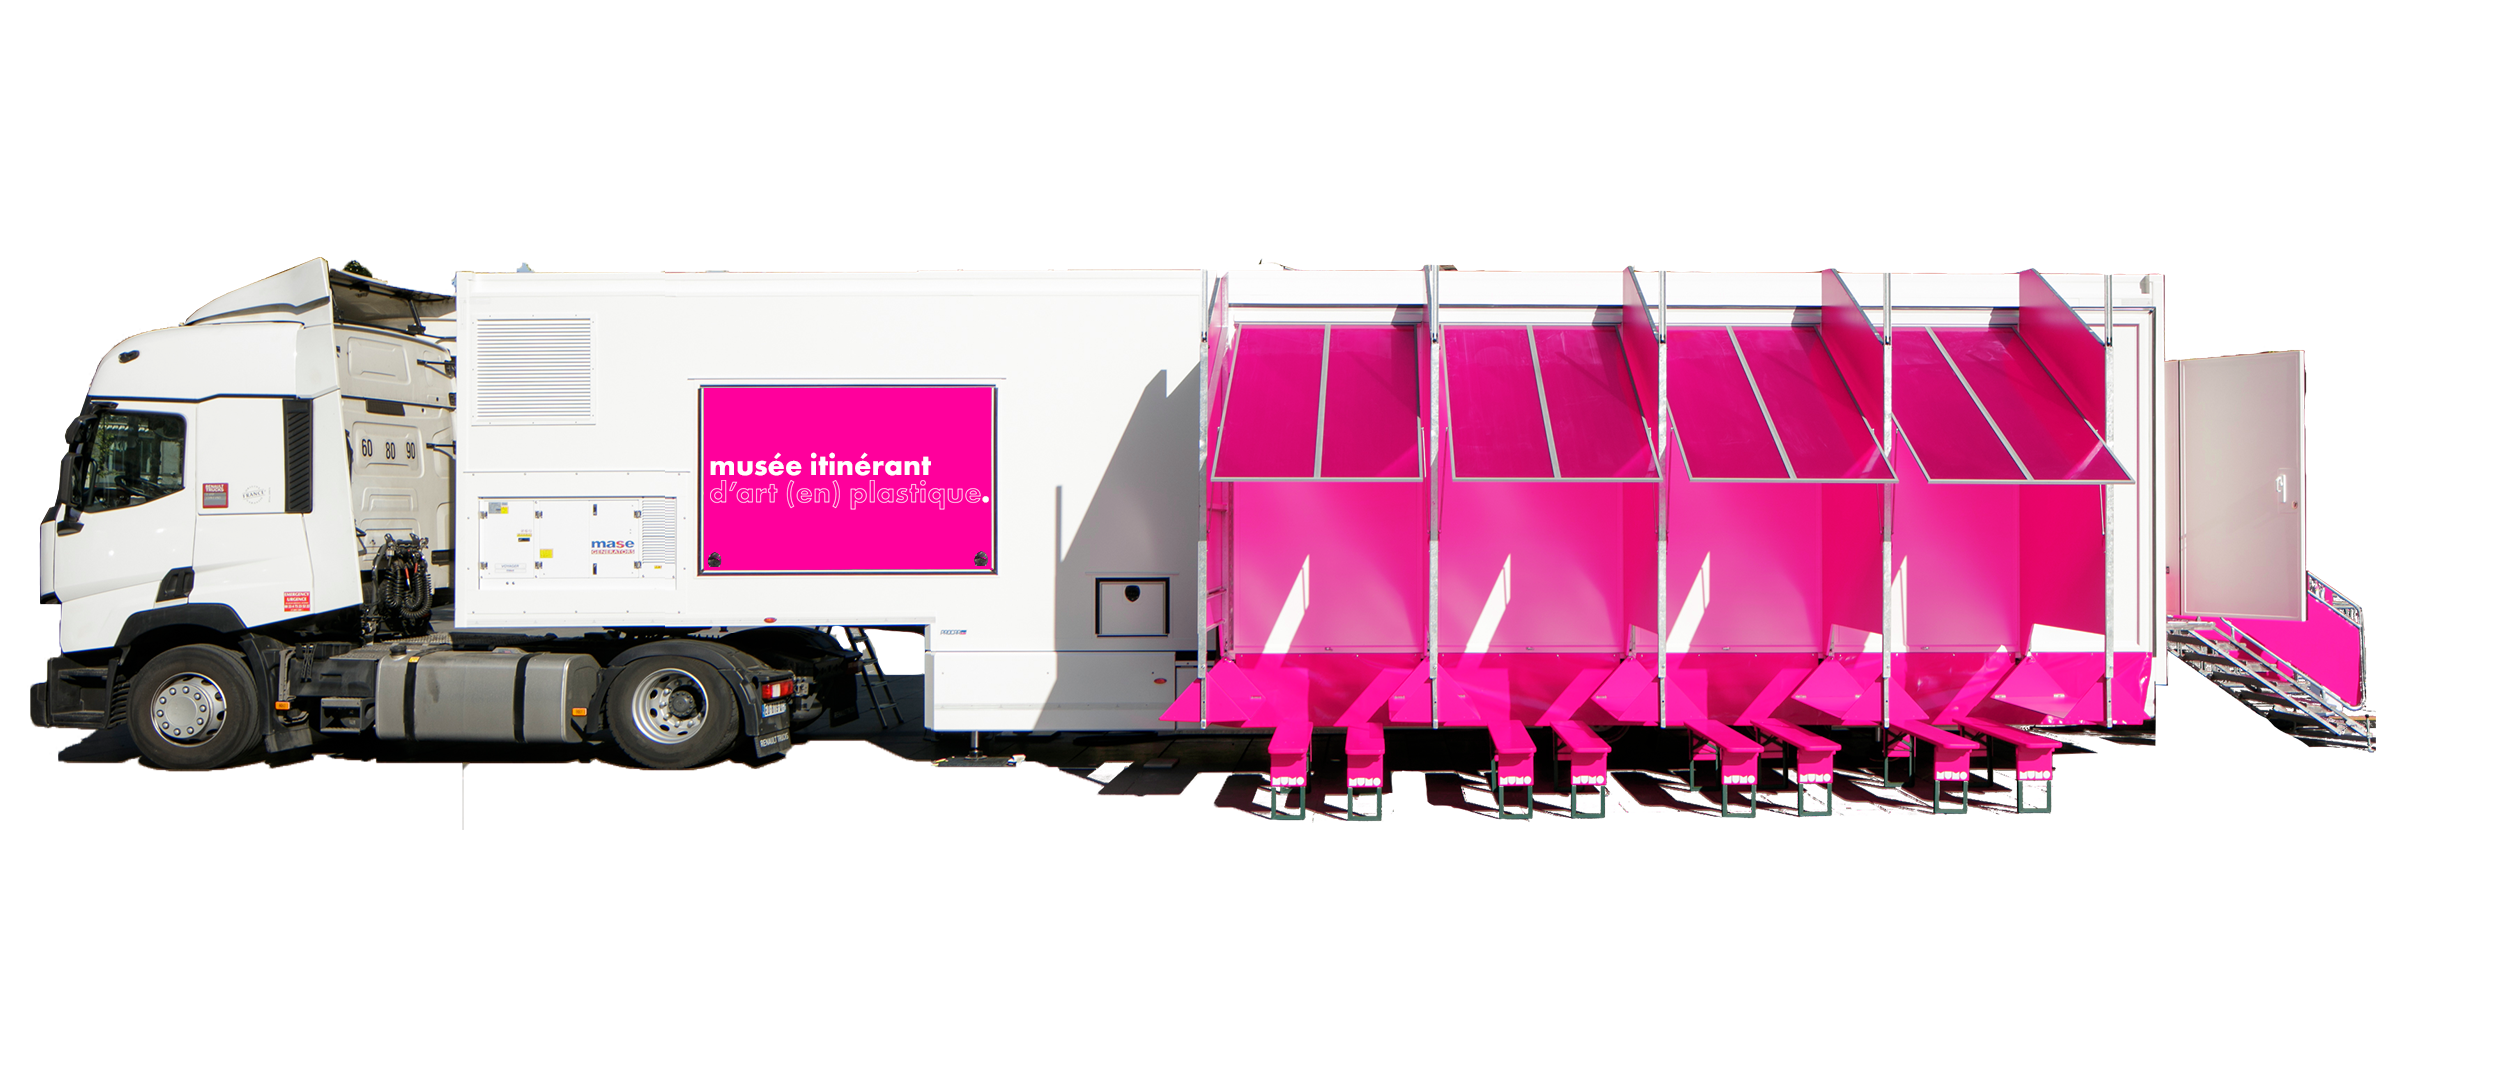
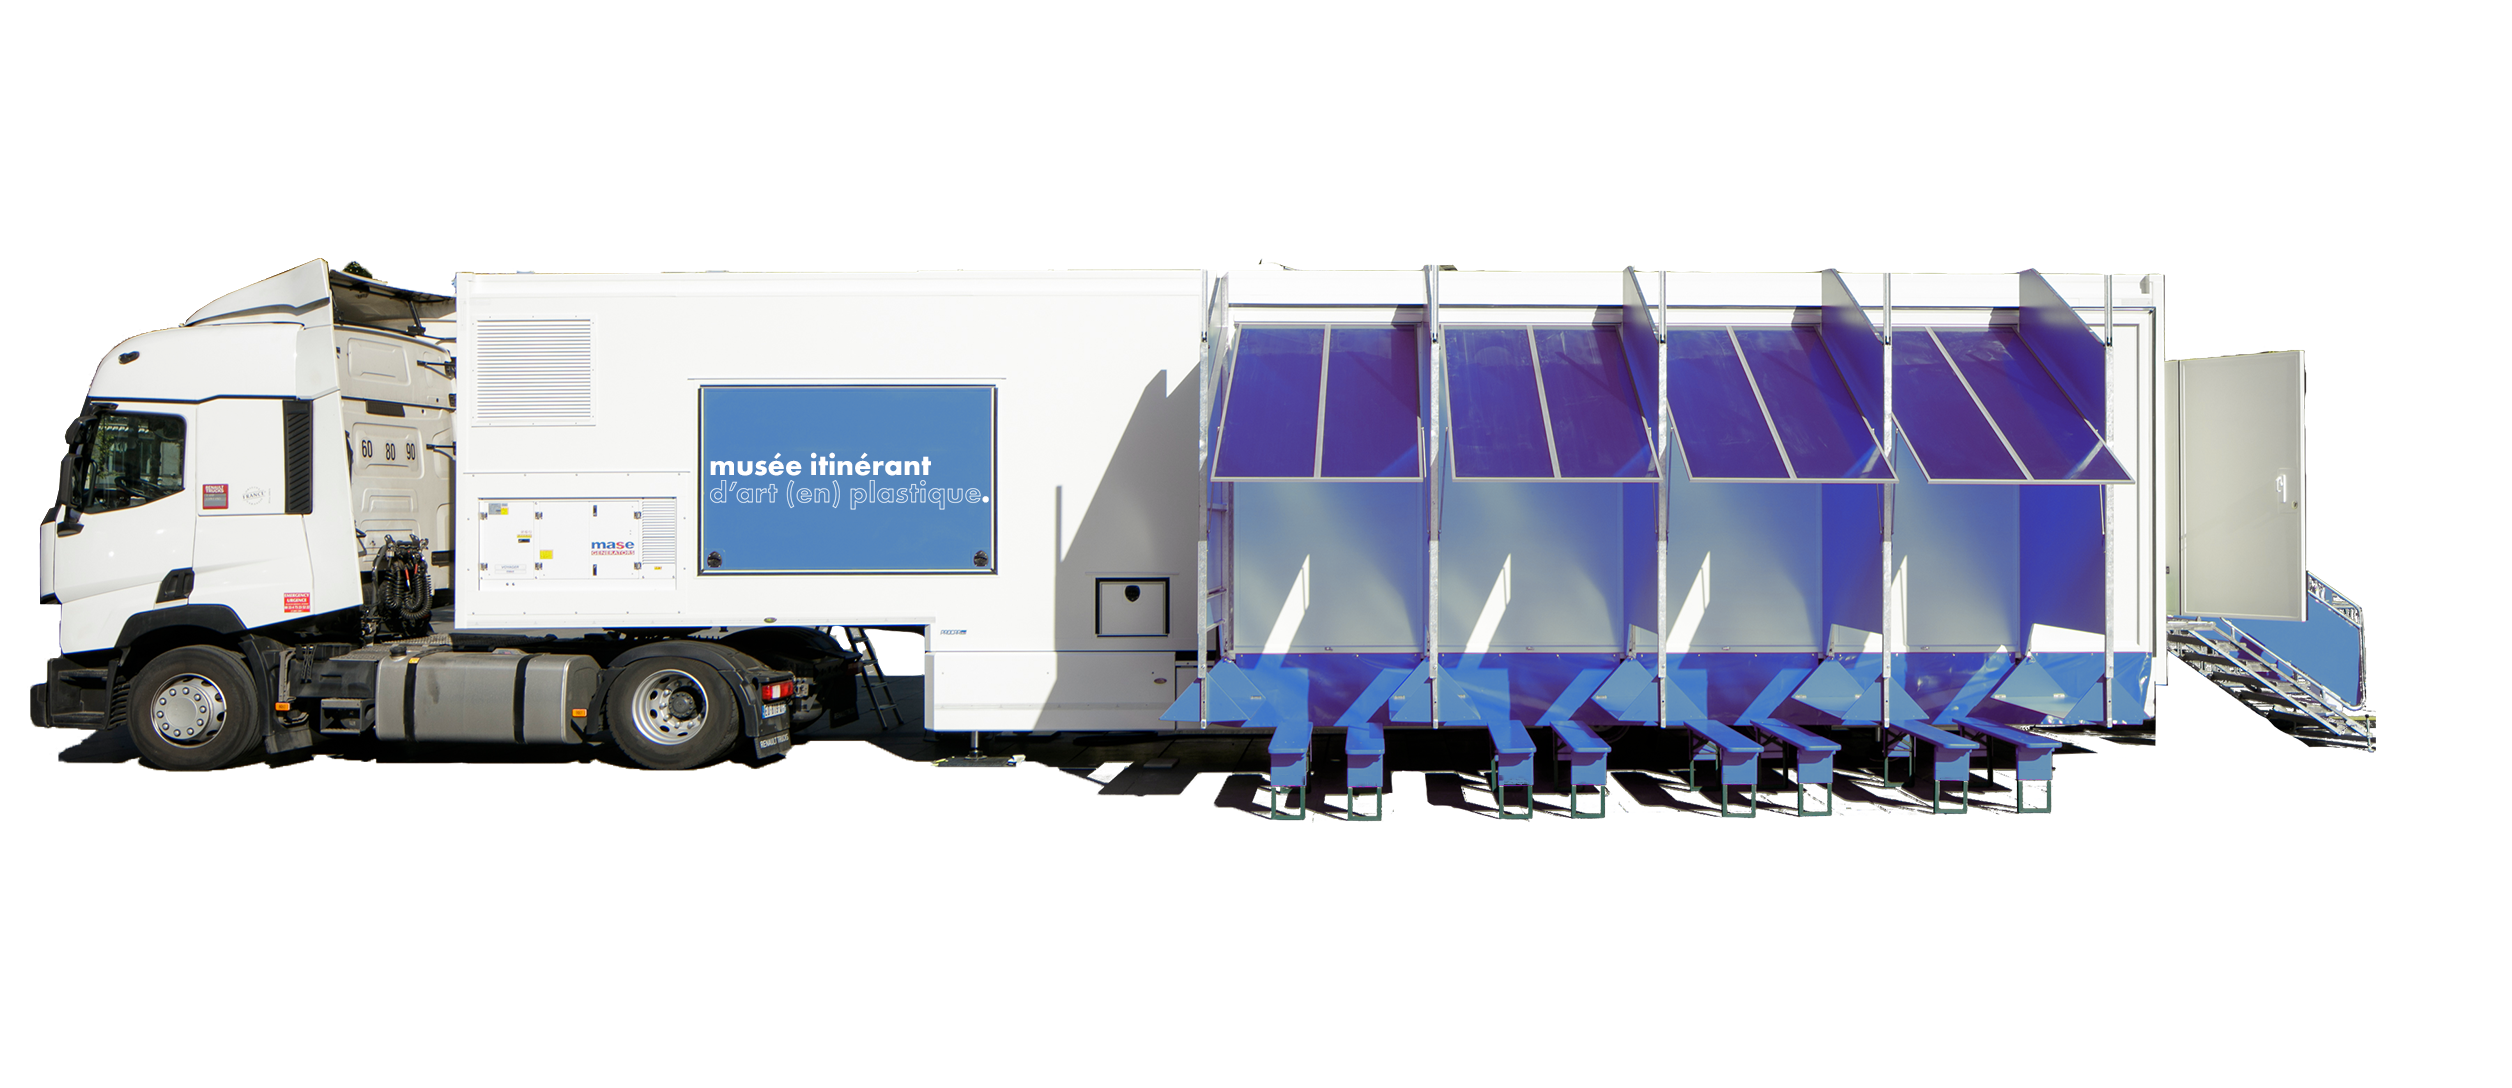
couleur

diff --git a/main.css b/main.css
@@ -4,11 +4,11 @@ body, h1, h2, h3, h4, h5, h6, p, blockquote, pre, hr, dl, dd, ol, ul, figure { m
 
 sup { font-size: 12px; font-family: "HK Grotesk", "Helvetica", "Arial", serif; weight: 700; }
 
-button { background: #000; padding: 10px 30px; border-radius: 30px; border: 1px solid #ff009c; color: #ff009c; font-family: "Duospace", -apple-system, BlinkMacSystemFont, "Segoe UI", Roboto, Helvetica, Arial, sans-serif, "Apple Color Emoji", "Segoe UI Emoji", "Segoe UI Symbol"; font-size: 15px; font-weight: bold; text-transform: uppercase; transition: all .3s ease; margin-bottom: 15px; }
+button { background: #000; padding: 10px 30px; border-radius: 30px; border: 1px solid #308AD9; color: #308AD9; font-family: "Duospace", -apple-system, BlinkMacSystemFont, "Segoe UI", Roboto, Helvetica, Arial, sans-serif, "Apple Color Emoji", "Segoe UI Emoji", "Segoe UI Symbol"; font-size: 15px; font-weight: bold; text-transform: uppercase; transition: all .3s ease; margin-bottom: 15px; }
 
-button:hover { cursor: pointer; background: #ff009c; color: #000; }
+button:hover { cursor: pointer; background: #308AD9; color: #000; }
 
-#tab_active { cursor: pointer; background: #ff009c; color: #000; }
+#tab_active { cursor: pointer; background: #308AD9; color: #000; }
 
 /** Basic styling */
 body { font: normal 15px/1.5 "Duospace", -apple-system, BlinkMacSystemFont, "Segoe UI", Roboto, Helvetica, Arial, sans-serif, "Apple Color Emoji", "Segoe UI Emoji", "Segoe UI Symbol"; color: #fff; background-color: #000; -webkit-text-size-adjust: 100%; -webkit-font-feature-settings: "kern" 1; -moz-font-feature-settings: "kern" 1; -o-font-feature-settings: "kern" 1; font-feature-settings: "kern" 1; font-kerning: normal; display: flex; min-height: 100vh; flex-direction: column; }
@@ -33,7 +33,7 @@ ul, ol { margin-left: 30px; }
 li > ul, li > ol { margin-bottom: 0; }
 
 /** Headings */
-h1, h2, h3, h4, h5, h6 { color: #ff009c; font-family: "HK Grotesk", "Helvetica", "Arial", serif; font-weight: 400; }
+h1, h2, h3, h4, h5, h6 { color: #308AD9; font-family: "HK Grotesk", "Helvetica", "Arial", serif; font-weight: 400; }
 
 /** Links */
 a { color: #ff66aa; text-decoration: none; }
@@ -87,11 +87,11 @@ table td { border: 1px solid #fff5ec; }
 /** navigation
 *
 */
-#nav { color: #ff009c; z-index: 9999; position: sticky; height: 41px; width: 100%; top: 0; padding: 15px 0; border-top: 1px solid #ff009c; }
+#nav { color: #308AD9; z-index: 9999; position: sticky; height: 41px; width: 100%; top: 0; padding: 15px 0; border-top: 1px solid #308AD9; }
 
 #nav button { font-size: 16.5px; font-family: "HK Grotesk", "Helvetica", "Arial", serif; text-transform: none; }
 
-#nav #home { background: #ff009c; color: #000; border-color: #ff009c; }
+#nav #home { background: #308AD9; color: #000; border-color: #308AD9; }
 
 #nav #polisocial { float: right; }
 
@@ -232,13 +232,13 @@ table td { border: 1px solid #fff5ec; }
 
 .post-content .main-post-content blockquote p { font-size: 18px; line-height: 1.2; }
 
-.post-content .main-post-content blockquote p em { color: #ff009c; }
+.post-content .main-post-content blockquote p em { color: #308AD9; }
 
 .post-content .main-post-content .footnotes { grid-column: 1 / 4; margin-bottom: 0; }
 
 .post-content .main-post-content .footnotes * { font-size: 12px; color: #ff1a80; }
 
-.post-content .main-post-content .footnotes p { color: #ff009c; }
+.post-content .main-post-content .footnotes p { color: #308AD9; }
 
 /** Syntax highlighting styles */
 .highlight { background: #fff; }
@@ -365,11 +365,11 @@ table td { border: 1px solid #fff5ec; }
 
 #cover { background: url("images/cover.jpg") no-repeat center; background-size: 100%; background-repeat: no-repeat; background-position: center; width: 100vw; height: 100vh; position: relative; left: calc(-50vw + 50%); top: -105px; display: flex; align-items: center; justify-content: center; vertical-align: middle; flex-wrap: wrap; color: #FFFFFF; }
 
-#cover .post-title { text-align: center; font-size: 90px; -webkit-text-stroke-color: #ff009c; -webkit-text-stroke-width: 1px; color: #ff66aa; font-weight: 700; width: 90%; margin: auto; }
+#cover .post-title { text-align: center; font-size: 90px; -webkit-text-stroke-color: #308AD9; -webkit-text-stroke-width: 1px; color: #ff66aa; font-weight: 700; width: 90%; margin: auto; }
 
 #cover h2 { font-size: 30px; width: 95%; text-align: center; margin: auto; color: #fff; line-height: 1.1; text-shadow: 0 0 2px #000; }
 
-#cover .description { width: 1140px; margin: auto; padding: 0 60px; font-size: 21px; color: #ff009c; }
+#cover .description { width: 1140px; margin: auto; padding: 0 60px; font-size: 21px; color: #308AD9; }
 
 #cover .description blockquote { font-size: 21px; }
 
@@ -377,7 +377,7 @@ table td { border: 1px solid #fff5ec; }
 
 .home blockquote p { margin-bottom: 15px; }
 
-.home blockquote em { color: #ff009c; }
+.home blockquote em { color: #308AD9; }
 
 #index { margin-top: 60px; }
 
@@ -403,7 +403,7 @@ table td { border: 1px solid #fff5ec; }
 
 .question__visualization { grid-column: 1 / 5; border-top: 1px solid #ffbf86; margin-top: 60px; padding: 30px 0; }
 
-.post-content > blockquote { font-size: 30px; color: #ff009c; }
+.post-content > blockquote { font-size: 30px; color: #308AD9; }
 
 .minified li { font-size: 13.5px; padding: 7.5px 0; }
 
